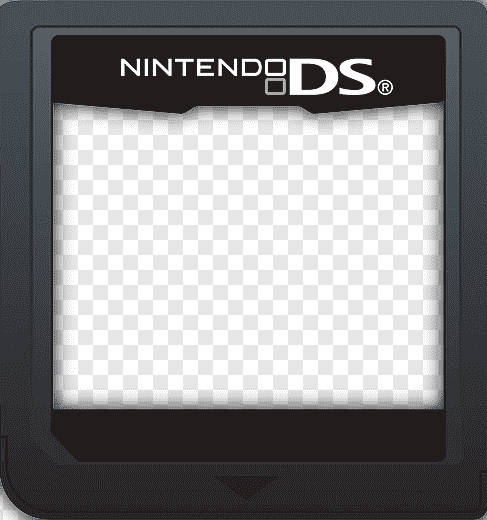
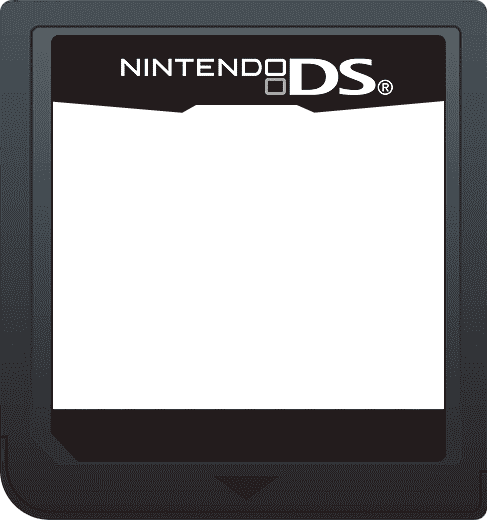
feat: 优化nds封面美化逻辑

diff --git a/frontend/src/utils/coverCompose.js b/frontend/src/utils/coverCompose.js
@@ -52,9 +52,10 @@ export function loadImage(src) {
  *
  * @param {string} styleId "flash" | "gb" | "gbc" | "gba" | "nds" | "fc" | "nes"（见 constants/coverStyles.js）
  * @param {HTMLImageElement} sourceImg 已载入完成的原封面
+ * @param {string} [cartridgeId] 卡带 ID；有 `serial` 配置的样式会把它写进画面
  * @returns {Promise<Blob>} PNG
  */
-export async function composeCover(styleId, sourceImg) {
+export async function composeCover(styleId, sourceImg, cartridgeId = "") {
     if (styleId === "flash") {
         return composeFlashDisc(sourceImg);
     }
@@ -62,41 +63,90 @@ export async function composeCover(styleId, sourceImg) {
     if (!cart) {
         throw new Error("不支持的美化类型。");
     }
-    return composeCartridge(cart, sourceImg);
+    return composeCartridge(cart, sourceImg, cartridgeId);
 }
 
 /* ---------------------------------------------------------------- 卡带 ---- */
 
 /**
- * 卡带：底图铺满 → 把封面**拉伸填满**洞口（`object-fit: fill` 的做法，不改比例地
- * 拉成洞口的长宽比，不裁切也不留边）→ 与底图合成。
+ * 卡带：先在贴图区铺底色、把封面**拉伸填满**贴图区（`object-fit: fill` 的做法，
+ * 不改比例地拉成贴图区的长宽比，不裁切也不留边），再与底图合并。
  *
- * 贴之前一定要按洞口的形状裁一刀：底图洞口是按同一形状填的，形状之外仍是机身像素
- * （GBA 是机身灰、GBC 是贴纸凹槽的阴影），不裁的话矩形封面会把这圈盖掉。
+ * 两种图层顺序由 `baseOnTop` 决定：
+ *   - 普通卡带（默认）：底图先铺，封面盖在洞口上；底图洞口已填机身色，洞口形状之外的
+ *     机身像素靠 `clip()` 留住（GBA 是机身灰、GBC 是贴纸凹槽的阴影）。
+ *   - NDS（`baseOnTop: true`）：封面先画在镂空窗里，**底图最后整张盖上来**——顶部 logo
+ *     黑区、左右黑分隔线、下方黑条都露在封面上面，封面只从镂空窗透出来。
+ *
  * 圆角可以**按角给**（`cornerRadii()` 归一化成 `{ tl, tr, br, bl }`）；
- * NDS 卡带的左下角是**斜角**，由 `cornerChamfers()` 给（同一个角有斜角就不再走圆角）。
+ * 斜角由 `cornerChamfers()` 给（同一个角有斜角就不再走圆角）。
+ *
+ * `holeFill` 铺在封面下面：封面自带透明像素时，空缺处露出这层底色（NDS 是贴纸黑），
+ * 不会露出底图的透明窗。`serial` 是画在底图上的卡带 ID 文字（目前只有 NDS 配了），
+ * 在封面与底图之后画，位置用输出画布坐标。
  */
-async function composeCartridge(cart, sourceImg) {
+async function composeCartridge(cart, sourceImg, cartridgeId = "") {
     const { image, hole } = cart;
     const base = await loadImage(cart.url);
     const ctx = makeContext(image.width, image.height);
 
-    ctx.drawImage(base, 0, 0, image.width, image.height);
+    const drawCover = () => {
+        ctx.save();
+        roundRectPath(
+            ctx,
+            hole.x,
+            hole.y,
+            hole.width,
+            hole.height,
+            cornerRadii(cart.radius),
+            cornerChamfers(cart.chamfer),
+        );
+        ctx.clip();
+        // 封面自带透明像素时露出的贴纸底色
+        if (cart.holeFill) {
+            ctx.fillStyle = cart.holeFill;
+            ctx.fillRect(hole.x, hole.y, hole.width, hole.height);
+        }
+        // 没有源矩形：整张封面直接拉伸到贴图区大小
+        ctx.drawImage(sourceImg, hole.x, hole.y, hole.width, hole.height);
+        ctx.restore();
+    };
 
-    ctx.save();
-    roundRectPath(
-        ctx,
-        hole.x,
-        hole.y,
-        hole.width,
-        hole.height,
-        cornerRadii(cart.radius),
-        cornerChamfers(cart.chamfer),
-    );
-    ctx.clip();
-    // 没有源矩形：整张封面直接拉伸到洞口大小
-    ctx.drawImage(sourceImg, hole.x, hole.y, hole.width, hole.height);
-    ctx.restore();
+    if (cart.baseOnTop) {
+        // NDS：封面在下，卡带框盖在上面，只从镂空窗露出
+        drawCover();
+        ctx.drawImage(base, 0, 0, image.width, image.height);
+    } else {
+        ctx.drawImage(base, 0, 0, image.width, image.height);
+        drawCover();
+    }
+
+    // 卡带 ID：靠右固定留白，按字形墨迹的上下边界垂直居中
+    // （textBaseline "middle" 对等宽字体偏高约 3px，所以改用 actualBoundingBox 量出墨迹）
+    if (cart.serial && cartridgeId) {
+        const { rightEdge, paddingRight, centerY, font, color } = cart.serial;
+        const text = String(cartridgeId);
+        ctx.save();
+        ctx.font = font;
+        ctx.fillStyle = color;
+        ctx.textAlign = "right";
+        const metrics = ctx.measureText(text);
+        const ascent = metrics.actualBoundingBoxAscent;
+        const descent = metrics.actualBoundingBoxDescent;
+        if (Number.isFinite(ascent) && Number.isFinite(descent)) {
+            ctx.textBaseline = "alphabetic";
+            ctx.fillText(
+                text,
+                rightEdge - paddingRight,
+                centerY + (ascent - descent) / 2,
+            );
+        } else {
+            // 老浏览器没有 actualBoundingBox，退回 middle
+            ctx.textBaseline = "middle";
+            ctx.fillText(text, rightEdge - paddingRight, centerY);
+        }
+        ctx.restore();
+    }
 
     return toPngBlob(ctx.canvas);
 }
@@ -247,9 +297,6 @@ function angleGradient(ctx, x, y, w, h, deg) {
  * （`c`，同样四角，数字是沿两条边切掉的长度）。同一个角同时给了斜角和圆角时以斜角为准。
  * 0 = 直角。不用 `ctx.roundRect`：那个 Chrome 99+ / Safari 16+ 才有，而且只吃一个统一半径。
  * `arcTo` 半径 0 是退化情形，这里干脆跳过它——上一句 lineTo 已经走到角上了。
- *
- * NDS 卡带的左下角是斜角：底边走到 (x + c.bl, y + h) 后直接斜线到 (x, y + h - c.bl)，
- * 与底图补色用的 `rounded_mask` + 三角形切除是同一块区域。
  */
 function roundRectPath(ctx, x, y, w, h, r, c = { tl: 0, tr: 0, br: 0, bl: 0 }) {
     // 每条边从角点往里缩的距离：斜角优先，其次圆角，否则 0（直角）

diff --git a/frontend/src/constants/coverStyles.js b/frontend/src/constants/coverStyles.js
@@ -18,15 +18,15 @@
  * ---------------------------------------------------------------
  * 卡带底图与洞口几何
  * ---------------------------------------------------------------
- * 底图是成品素材——一张**没贴过贴纸的原始卡带**，中间那块贴纸窗已经填成机身色，
- * 几组数字：整图尺寸、洞口矩形、洞口圆角（个别样式还有斜角）。**换素材必须同步改这些
+ * 底图是成品素材——一张**没贴过贴纸的原始卡带**，中间那块贴纸窗通常已经填成机身色，
+ * 几组数字：整图尺寸、贴图区矩形、圆角（个别样式还有斜角）。**换素材必须同步改这些
  * 数字**，否则封面会错位；下面的值已逐像素核对过：
  *
  *   gb-cart.png    426 × 500  洞口 (53, 151) 322 × 287   圆角 8   （洞口 322:287 ≈ 1.12:1）
  *   gbc-cart.png   438 × 503  洞口 (58, 163) 322 × 287   圆角 8   （洞口同上）
  *   gba-cart.png   640 × 370  洞口 (88,  86) 464 × 235   圆角 12  （洞口 464:235 ≈ 1.97:1）
- *   nds-cart.png   260 × 270  洞口 (33,  28) 205 × 197   圆角 tl 12 / tr 22 / br 17，左下斜角 20
- *                                                         （洞口 205:197 ≈ 1.04:1）
+ *   nds-cart.png   487 × 520  标签贴图区 (51, 35) 395 × 374  直角矩形（封面先画、底图盖在上面）
+ *                                                         （只从中间镂空窗露出，顶部黑条盖住封面顶部）
  *   fc-cart.png    700 × 460  洞口 (56,  54) 592 × 290   圆角 10  （洞口 592:290 ≈ 2.04:1）
  *   nes-cart.png   700 × 779  洞口 (283,  0) 323 × 527   圆角 10  （洞口 323:527 ≈ 0.61:1）
  *                                                         ↑ 洞口上边就是画布顶边，见下
@@ -44,11 +44,17 @@
  * 合成时按它 `clip()` 一刀，**圆角之外那圈底图像素要留着**（GBA 是机身灰、GB/GBC 是贴纸
  * 凹槽的阴影），不能被方形封面盖掉。
  *
- * `chamfer` 是**斜角**（直线切角），NDS 卡带左下角就是这种：写一个数字 = 四角都切，
- * 也可以写成 `{ tl, tr, br, bl }`，见 `cornerChamfers()`。同一个角给了 `chamfer` 就不再走
- * 圆角，`roundRectPath()` 里画直线；目前只有 NDS 用，且只切左下角。NDS 底图是用
- * `.claude/skills/cartridge-clear-scene` 的圆角 mask 再在左下切一个 20px 三角形生成的，
- * 换卡带素材时同步改这里的 `hole` / `radius` / `chamfer`。
+ * `chamfer` 是**斜角**（直线切角），写一个数字 = 四角都切，也可以写成
+ * `{ tl, tr, br, bl }`，见 `cornerChamfers()`。同一个角给了 `chamfer` 就不再走
+ * 圆角，`roundRectPath()` 里画直线；目前没有样式在用（NDS 改成整块贴纸区后不再切
+ * 左下角），能力保留给以后可能出现的素材。
+ *
+ * NDS 的贴图逻辑和别的卡带**反过来**：封面左上角对准**顶部 logo 黑条的左上角**，铺满
+ * 整块标签区；**底图最后整张盖上来**，顶部 logo 黑区、左右黑分隔线、下方黑条都还是
+ * 卡带本身——就像拿一张中间镂空的卡带框盖在贴图上，贴图只从镂空窗露出。封面顶部
+ * （包括封面自己带着的 logo）会被卡带黑条完全盖住，不会出现两个 logo。`baseOnTop: true`
+ * 控制这个顺序。NDS 另有两条专属配置：`holeFill` 是封面自带透明像素时露出的贴纸底色；
+ * `serial` 是把卡带 ID 写在下方黑条里的位置、字体与颜色。
  *
  * **注意「底图填色」与「封面裁切」是两件事，`nes-cart.png` 那张上最容易搞混**：它的洞口上边就是
  * 画布顶边（源图顶部被裁掉了，标签上边缘不在画面里），所以**底图填色时上面两角是直角**
@@ -56,7 +62,8 @@
  * 裁切仍然是四角 r=10**，裁掉的上两角露出的是底图填好的机身色。重跑底图填色时记得这点
  * （`clear_scene.py --radius 0,0,10,10`）。
  *
- * 底图本身带透明的地方只有卡带轮廓之外（缺口、四角），与洞口无关。
+ * 底图本身带透明的地方通常是卡带轮廓之外（缺口、四角）；NDS 底图的贴纸窗也是透明的，
+ * 合成时由 `holeFill` 在封面下面补一层贴纸底色。
  *
  * ---------------------------------------------------------------
  * 素材位置
@@ -143,11 +150,21 @@ export const CART_STYLES = {
     nds: {
         label: "NDS",
         url: ndsCartUrl,
-        image: { width: 260, height: 270 },
-        // 贴纸窗：左上/右上/右下是圆角，左下是斜角（NDS 卡带的缺口）
-        hole: { x: 33, y: 28, width: 205, height: 197 },
-        radius: { tl: 12, tr: 22, br: 17, bl: 0 },
-        chamfer: { bl: 20 },
+        image: { width: 487, height: 520 },
+        // 封面左上角对准标签区左上角（顶部 logo 黑条的左上角），铺满整块标签区；
+        // 底图（带透明窗）最后整张盖上来，封面只从中间镂空窗露出。
+        hole: { x: 51, y: 35, width: 395, height: 374 },
+        baseOnTop: true,
+        // 封面自带透明像素时露出的贴纸底色（logo 黑条同色）
+        holeFill: "rgb(35, 28, 29)",
+        // 卡带 ID：写在下方黑条（y 409–461）里，靠右固定留白；垂直居中按字形墨迹计算
+        serial: {
+            rightEdge: 445,
+            paddingRight: 20,
+            centerY: 435,
+            font: '22px ui-monospace, SFMono-Regular, Menlo, Consolas, "Courier New", monospace',
+            color: "#ffffff",
+        },
     },
     fc: {
         label: "FC",
@@ -212,7 +229,7 @@ const STYLE_META = {
         id: "nds",
         label: CART_STYLES.nds.label,
         output: { ...CART_STYLES.nds.image },
-        hint: "建议 205 : 197（约 1.04:1），至少 205×197。比例不符会拉伸填满卡带贴纸窗。",
+        hint: "建议 395 : 374（约 1.06:1），至少 395×374。封面从顶部 logo 黑条左上角开始铺满标签区，卡带最后盖上来，只从中间镂空窗露出；封面顶部会被黑条盖住。",
     },
     fc: {
         id: "fc",

diff --git a/frontend/src/components/games/CoverBeautifyDialog.vue b/frontend/src/components/games/CoverBeautifyDialog.vue
@@ -144,7 +144,11 @@ async function compose() {
     releaseResult();
     status.value = "working";
     try {
-        const composed = await composeCover(current.id, sourceImage);
+        const composed = await composeCover(
+            current.id,
+            sourceImage,
+            props.game?.cartridge_id,
+        );
         if (token !== runToken) {
             return;
         }

diff --git a/AGENTS.md b/AGENTS.md
@@ -195,7 +195,7 @@ requirements.txt
 - **类型的显示名**：`flash`→`Flash`、`h5`→`HTML5`（这两个**不是机种**，是载体类型，名字写在 `service.GAME_TYPE_LABELS` 里），8 个机种取词表的 `label`（`任天堂 FC` / `任天堂 SFC` / `任天堂 GB/GBC` / `任天堂 GBA` / `任天堂 NDS` / `世嘉 MD` / `世嘉 GG` / `世嘉 SMS`）。后端那份只用于拼中文报错文案；前端展示层镜像在 `frontend/src/constants/gameTypes.js` 的 `GAME_TYPE_LIST`（纯展示，**不进任何键名/路径/存储**），**两边逐字一致由 `tests/test_platforms.py` 钉住**。游戏管理、游戏检索、游戏榜单三处显示的是同一套名字，所以「任天堂 FC」在哪儿都写作「任天堂 FC」。
 - **游戏中心卡片外观**：**所有游戏类型一视同仁，就是封面原图**——按自身比例等比缩放到「正方形限制框」内、居中，不裁不拉（比 1:1 宽的卡片更矮，比 1:1 高的左右留空条）；没有封面时摆类型图标。**卡片封面框的尺寸规则**统一在 `components/games/GameCover.vue`：卡片宽 = **正方形限制框**边长（框上 `container-type: inline-size`，内部用 `cqw`，所以 rail 与网格里同一盘卡一样大）。**只有游戏中心的卡片**（「全部游戏」网格与「最近游玩」rail）走这层渲染；详情弹框图片栏、游戏管理列表缩略图与添加/编辑表单的封面预览都显示**封面原图**。**卡片高度规则**：rail 传 `CARD_ASPECT_RAIL`（`1 / 1`）→ 卡片是正方形、整行高低一致；「全部游戏」不传 aspect → 卡片高 = 封面高（同类型封面形状一致，整行仍齐平，扁封面的行更矮）。**渲染层不按游戏类型分支**：光盘 / 卡带的观感一律由下面的「封面美化」合成进封面文件本身
 - **封面美化（游戏管理页编辑弹框）**：编辑弹框「游戏封面」那行，在「本地上传 / 网络上传」右边还有**美化封面**按钮（`components/games/CoverBeautifyDialog.vue`）——把该游戏**当前的封面**合成成光盘 / 卡带的外观，确认后存回去覆盖原封面。**样式由游戏类型给一组、用户在这一组里选**（`constants/coverStyles.js` 的 `beautifyStylesFor()`，返回数组、顺序就是单选顺序、第一个是默认）：`flash`→DISK、`gb`→**GB / GBC 两种**、`gba`→GBA、`nds`→NDS、`nes`→**FC / NES 两种**；**弹框标题右边始终有一排样式分段按钮**（`AppSegmented`，走 `AppDialog` 的可选 `#header` 插槽），切换只重新合成、不重新下载原封面；**只有一种样式的类型（flash / gba / nds）也出这排按钮，那一项 `disabled`、点不动**，为的是每个类型都露出自己的样式名。**打开弹框时按游戏当前的封面类型默认选中**（`cover_type` 就是上次美化用的样式 id，命中列表里哪个就选哪个；没设过——新建的游戏都是空的——就是列表第一个）。**不在这张表里的类型（h5/snes/sega*）整条不显示按钮**。按钮的显示与可用条件：只在**编辑**模式（新建时游戏还没落库、也没封面，与「图集」「攻略」两项一致）且类型支持时出现；**该游戏还没有封面时按钮在但点不动**（美化的输入就是当前封面）。弹出即自动合成、没有「制作」这一步，左右两栏分别是原封面与美化后（右栏铺棋盘格底，透明区一眼可见），底部「取消 / 确认」；弹框里按类型提示建议输入尺寸与输出尺寸。确认走 `uploadAsset(id, "cover", { file, coverType })`（`POST /api/games/manage/{id}/assets`，多带一个 `cover_type` 表单字段）——canvas 出来的 Blob 没有名字，要包一层带 `.png` 的 `File`，后端靠文件名后缀定扩展名；**所选样式 id 与封面文件在同一次调用里落库**（写进 `games.cover_type`，也就是「封面类型」，见下面那条），分两步会留下「封面换了、类型没跟上」的中间态。**覆盖不可逆**：后端对 cover 分支会 `_delete_storage_key(old)`，原封面文件直接删掉。
-- **封面美化的合成算法**（`utils/coverCompose.js`，纯 canvas、无 Vue 依赖）：两种做法。**卡带**（GB/GBC/GBA/NDS/FC/NES）是「**先把封面缩放到洞口的长宽比，再与底图合并**」——底图是成品素材——一张**没贴过贴纸的原始卡带**（中间贴纸窗已填成机身色），封面直接盖到洞口位置即可；缩放是 `object-fit: fill` 的做法，**拉伸填满、不裁切不留边**，比例不符就是变形。贴之前必须按洞口形状 `clip()` 一刀：底图洞口是按同一形状填的，**形状之外仍是机身像素**（GBA 是机身灰，GBC 是贴纸凹槽的阴影），不裁的话方形封面会盖掉这圈、接缝就不自然了。**圆角可以按角给**（`cornerRadii()`，写数字 = 四角相同、写对象 = 按角指定、没写的角算直角，`roundRectPath()` 里直角跳过 `arcTo`）；**斜角**另由 `cornerChamfers()` 给（同一个角有斜角就不再走圆角）——NDS 卡带左下角就是 20px 斜角，另外三角是半径 12 / 22 / 17 的圆角。**「底图填色」与「封面裁切」是两件事，FC 美版那张最容易搞混**：它的洞口上边就是画布顶边（源图顶部被裁掉了），所以**底图填色时上两角是直角**（那两块本来就是洞口的一部分，必须一起填上，否则底图上留两个透明缺口），而**封面裁切仍是四角 r=10**——裁掉的上两角露出的是底图填好的机身色。**Flash 光盘**是**程序化绘制**（没有底图）：画布 1024×1024，盘直径占 84%（四周留透明）、整盘一次性圆形 `clip()`，依次画「盘面底色（135deg 线性渐变）→ 封面（`object-fit: cover`，目标是正方形所以源矩形恒为居中的 `min(宽,高)` 正方形）→ 盘心 `src/assets/flash-logo.png`（边长占**盘直径**的 15%）→ 三层反光」。三层反光**由底到顶**依次是 118deg 斜向高光、外圈暗调与塑料边、盘心积层环，**顺序反了上面那层会把下面的盖掉**；两个径向渐变的**百分比基准是盘半径不是盘直径**（盘心标志那个数才是占直径的，这是整套几何最容易错的地方），同色双位置 stop（`91%` 与 `92.5%` 之间不过渡）要写成两条同色 stop。渐变线要自己算端点：`0deg` 朝上、顺时针，方向向量 `(sinθ, −cosθ)`、长度 `|W·sinθ| + |H·cosθ|`——**别拿 `(0,0)→(W,H)` 当端点**，那只在 45° 整数倍上碰巧对。几个必须避开的坑：`toBlob` 只出 **PNG**（jpeg 会把透明区压成黑底）、**不要传 `{ alpha: false }`**（那是模拟器截图的写法，这里会让画布变成不透明黑底，圆角与光盘圆外全废）、素材图必须 `await` 到 load 完（`drawImage` 收到没加载完的 Image 会静默什么都不画）。素材与洞口几何（**换素材必须同步改这些数字：整图尺寸、洞口矩形、圆角/斜角**）：`gb-cart.png` 426×500、洞口 (53,151) 322×287、圆角 8；`gbc-cart.png` 438×503、洞口 (58,163) 322×287、圆角 8；`gba-cart.png` 640×370、洞口 (88,86) 464×235、圆角 12；`nds-cart.png` 260×270、洞口 (33,28) 205×197、圆角 tl 12 / tr 22 / br 17 + 左下斜角 20；`fc-cart.png` 700×460、洞口 (56,54) 592×290、圆角 10；`nes-cart.png` 700×779、洞口 (283,0) 323×527、圆角 10（底图填色时上两角是直角，见上）。底图文件名一律 `<样式 id>-cart.png`。**要贴同一张画的多个样式，洞口尺寸必须做成一样**（同一张封面贴进哪个样式，占的区域都得是同一个大小）——底图按 `sx = 目标洞口宽 / 原洞口宽`、`sy = 目标洞口高 / 原洞口高` 整图重采样，再按整数坐标重填一遍洞口；**加卡带样式照这个规矩来**。但**本来就该贴不同画的样式各按自己的素材来，别去对齐**：FC 日版挖的是整块横版标签（2.04:1）、美版挖的是竖版贴纸（0.61:1），形状差得远。没有现成底图时，用 `.claude/skills/cartridge-clear-scene` 把卡带成品图的贴纸窗清掉并补上机身色（窗外不是机身时要 `--color` 手工给，比如透明壳的 GBC）
+- **封面美化的合成算法**（`utils/coverCompose.js`，纯 canvas、无 Vue 依赖）：两种做法。**卡带**（GB/GBC/GBA/NDS/FC/NES）是「**先把封面缩放到洞口的长宽比，再与底图合并**」——底图是成品素材——一张**没贴过贴纸的原始卡带**（贴纸窗通常已填成机身色；NDS 的贴纸窗是透明的，合成时先铺 `holeFill` 底色），封面直接盖到贴图区即可；缩放是 `object-fit: fill` 的做法，**拉伸填满、不裁切不留边**，比例不符就是变形。贴之前必须按洞口形状 `clip()` 一刀：底图洞口是按同一形状填的，**形状之外仍是机身像素**（GBA 是机身灰，GBC 是贴纸凹槽的阴影），不裁的话方形封面会盖掉这圈、接缝就不自然了。**圆角可以按角给**（`cornerRadii()`，写数字 = 四角相同、写对象 = 按角指定、没写的角算直角，`roundRectPath()` 里直角跳过 `arcTo`）；**斜角**另由 `cornerChamfers()` 给（同一个角有斜角就不再走圆角）；目前没有样式在用这套斜角。**NDS 是图层顺序的例外**：`baseOnTop: true` 让封面从顶部 logo 黑条左上角开始铺满标签区，底图最后整张盖上来；顶部 logo 黑区、左右黑分隔线、下方黑条都露在封面上面，封面只从镂空窗透出来（封面顶部连同它自己带的 logo 会被黑条盖住，不会出现两个 logo）。**「底图填色」与「封面裁切」是两件事，FC 美版那张最容易搞混**：它的洞口上边就是画布顶边（源图顶部被裁掉了），所以**底图填色时上两角是直角**（那两块本来就是洞口的一部分，必须一起填上，否则底图上留两个透明缺口），而**封面裁切仍是四角 r=10**——裁掉的上两角露出的是底图填好的机身色。**Flash 光盘**是**程序化绘制**（没有底图）：画布 1024×1024，盘直径占 84%（四周留透明）、整盘一次性圆形 `clip()`，依次画「盘面底色（135deg 线性渐变）→ 封面（`object-fit: cover`，目标是正方形所以源矩形恒为居中的 `min(宽,高)` 正方形）→ 盘心 `src/assets/flash-logo.png`（边长占**盘直径**的 15%）→ 三层反光」。三层反光**由底到顶**依次是 118deg 斜向高光、外圈暗调与塑料边、盘心积层环，**顺序反了上面那层会把下面的盖掉**；两个径向渐变的**百分比基准是盘半径不是盘直径**（盘心标志那个数才是占直径的，这是整套几何最容易错的地方），同色双位置 stop（`91%` 与 `92.5%` 之间不过渡）要写成两条同色 stop。渐变线要自己算端点：`0deg` 朝上、顺时针，方向向量 `(sinθ, −cosθ)`、长度 `|W·sinθ| + |H·cosθ|`——**别拿 `(0,0)→(W,H)` 当端点**，那只在 45° 整数倍上碰巧对。几个必须避开的坑：`toBlob` 只出 **PNG**（jpeg 会把透明区压成黑底）、**不要传 `{ alpha: false }`**（那是模拟器截图的写法，这里会让画布变成不透明黑底，圆角与光盘圆外全废）、素材图必须 `await` 到 load 完（`drawImage` 收到没加载完的 Image 会静默什么都不画）。素材与洞口几何（**换素材必须同步改这些数字：整图尺寸、洞口矩形、圆角/斜角**）：`gb-cart.png` 426×500、洞口 (53,151) 322×287、圆角 8；`gbc-cart.png` 438×503、洞口 (58,163) 322×287、圆角 8；`gba-cart.png` 640×370、洞口 (88,86) 464×235、圆角 12；`nds-cart.png` 487×520、标签贴图区 (51,35) 395×374（直角矩形；封面左上角对准 logo 黑条左上角，封面先画、底图最后盖上来，只从镂空窗露出，顶部黑条盖住封面顶部；卡带 ID 用白色等宽字体画进下方黑条，右对齐、垂直居中、右边固定留白 20px）；`fc-cart.png` 700×460、洞口 (56,54) 592×290、圆角 10；`nes-cart.png` 700×779、洞口 (283,0) 323×527、圆角 10（底图填色时上两角是直角，见上）。底图文件名一律 `<样式 id>-cart.png`。**要贴同一张画的多个样式，洞口尺寸必须做成一样**（同一张封面贴进哪个样式，占的区域都得是同一个大小）——底图按 `sx = 目标洞口宽 / 原洞口宽`、`sy = 目标洞口高 / 原洞口高` 整图重采样，再按整数坐标重填一遍洞口；**加卡带样式照这个规矩来**。但**本来就该贴不同画的样式各按自己的素材来，别去对齐**：FC 日版挖的是整块横版标签（2.04:1）、美版挖的是竖版贴纸（0.61:1），形状差得远。没有现成底图时，用 `.claude/skills/cartridge-clear-scene` 把卡带成品图的贴纸窗清掉并补上机身色（窗外不是机身时要 `--color` 手工给，比如透明壳的 GBC）
 - **文件落盘位置固定**（与源文件名、游戏名都无关，改名不挪动任何文件）。**两个根**：数据根 `STORAGE_ROOT` 放原始素材（会被整体拷走备份），运行时根 `RUNTIME_ROOT`（不配时等于数据根）放 SQLite 库与解包产物。SQLite 里只存相对路径，两个根下的相对路径**逐字一致**，读取时由 `backend/storage/local.py` 的 `LocalStorage` 拼上对应的根（并挡住绝对路径与 `..`）；`create_app()` 各建一个实例挂在 `app.state.storage` / `app.state.runtime_storage`。路径规则集中在 `backend/games/paths.py`，别在别处手拼字符串。**数据根**：
   - 本体：`game/{game_type}/{卡带ID}/game.{后缀}`，如 `game/nes/AB-12/game.nes`；H5 为原始 ZIP `game/h5/AB-12/game.zip`
   - 封面：`game/{game_type}/{卡带ID}/cover.{后缀}`，如 `game/nes/AB-12/cover.png`

diff --git a/docs/architecture.md b/docs/architecture.md
@@ -301,17 +301,23 @@ backend/
   详情弹框展示、编辑弹框可手动改），所以这一次 assets 调用带 cover_type 表单字段
   合成在 utils/coverCompose.js，纯 canvas、无 Vue 依赖：
     卡带 = 先把封面缩放到洞口长宽比（拉伸填满，object-fit: fill），再与底图合并；
-           底图是一张没贴过贴纸的原始卡带（洞口已填成机身色）；
-           贴之前按洞口圆角 clip，圆角外的机身像素/凹槽阴影才不会被方形封面盖掉
-           圆角可按角给（cornerRadii）；斜角另由 cornerChamfers 给（NDS 左下角 20px，另外三角 12/22/17）；nes 那张洞口顶到画布上边，
+           底图是一张没贴过贴纸的原始卡带（贴纸窗通常已填成机身色；NDS 的是透明的，合成时先铺 holeFill 底色）；
+           贴之前按贴图区圆角 clip，圆角外的机身像素/凹槽阴影才不会被方形封面盖掉
+           圆角可按角给（cornerRadii）；斜角另由 cornerChamfers 给（目前没有样式在用）；nes 那张贴图区顶到画布上边，
            底图填色时上两角是直角（那两块也是洞口），封面裁切照样四角 r=10
+           NDS 例外：baseOnTop 让封面从顶部 logo 黑条左上角开始铺满标签区、底图最后整张盖上来，
+           顶部 logo 黑区/左右分隔线/下黑条都在封面之上，封面只从镂空窗露出，
+           封面顶部（含封面自带的 logo）被黑条盖住，不会出现两个 logo
     光盘 = 程序化绘制（无底图）：圆形裁切 + 盘面贴封面（居中方形裁切）+ 盘心 Flash 标志
            + 三层反光（由底到顶：斜向高光 → 外圈暗调与塑料边 → 盘心积层环）
   素材与洞口几何写死在 constants/coverStyles.js，**换素材必须同步改这三组数字**：
     gb-cart.png  426×500、洞口 (53,151) 322×287、圆角 8
     gbc-cart.png 438×503、洞口 (58,163) 322×287、圆角 8
     gba-cart.png 640×370、洞口 (88,86) 464×235、圆角 12
-    nds-cart.png 260×270、洞口 (33,28) 205×197、圆角 tl 12 / tr 22 / br 17、左下斜角 20
+    nds-cart.png 487×520、标签贴图区 (51,35) 395×374（直角矩形；封面左上角对准 logo
+                 黑条左上角，封面先画、底图最后盖上来，只从镂空窗露出，顶部黑条盖住
+                 封面顶部；卡带 ID 用白色等宽字体画进下方黑条，右对齐、垂直居中、
+                 右边固定留白 20px）
     fc-cart.png 700×460、洞口 (56,54) 592×290、圆角 10
     nes-cart.png 700×779、洞口 (283,0) 323×527、圆角 10（底图填色时上两角是直角）
   **要贴同一张画的多个样式洞口尺寸必须相同**（同一张封面贴进哪个样式都占同样大的区域）：
